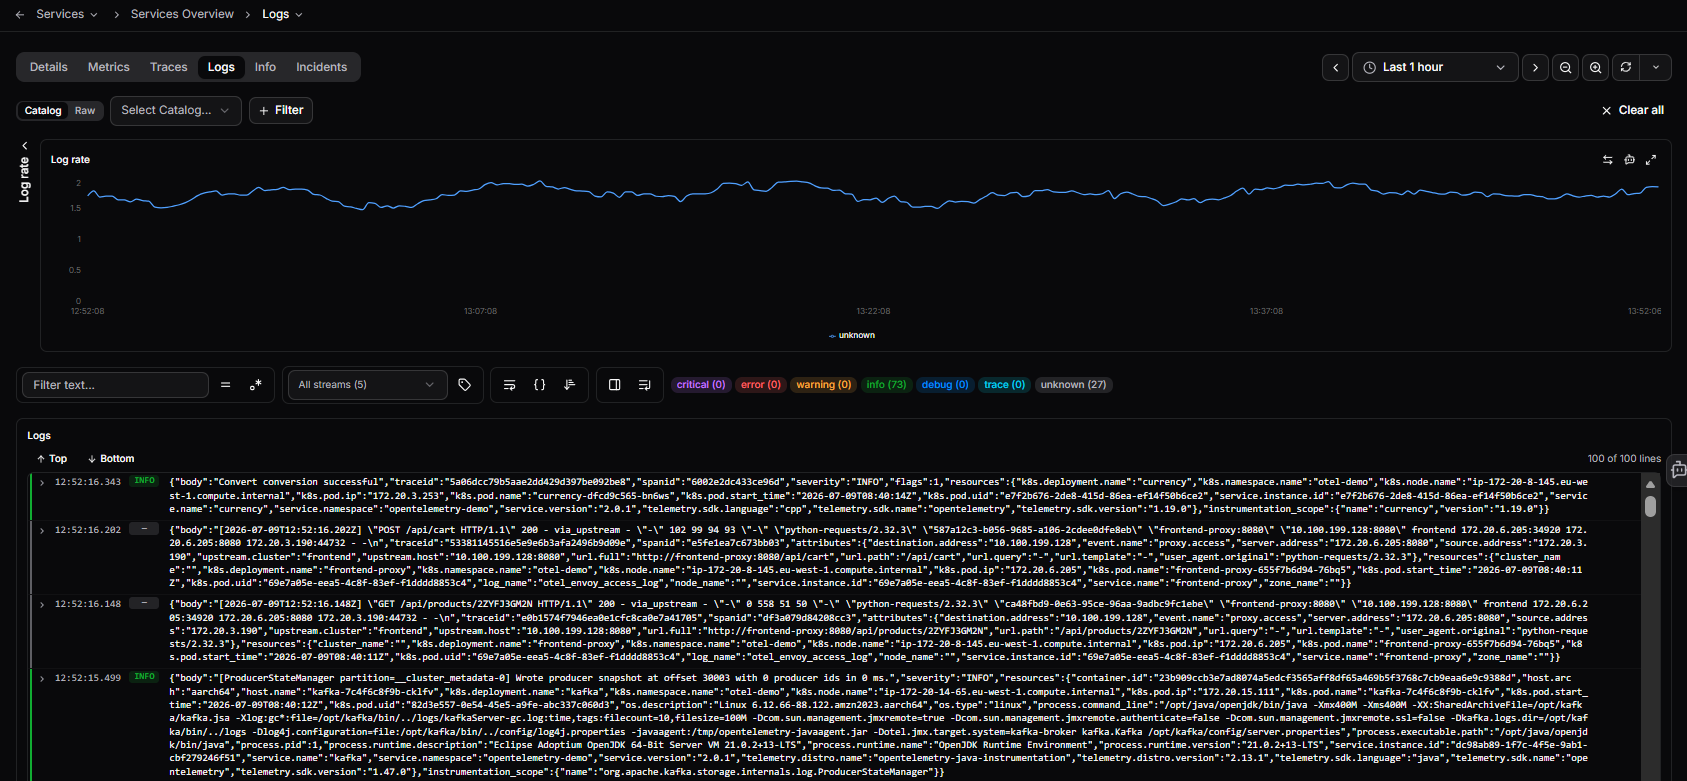
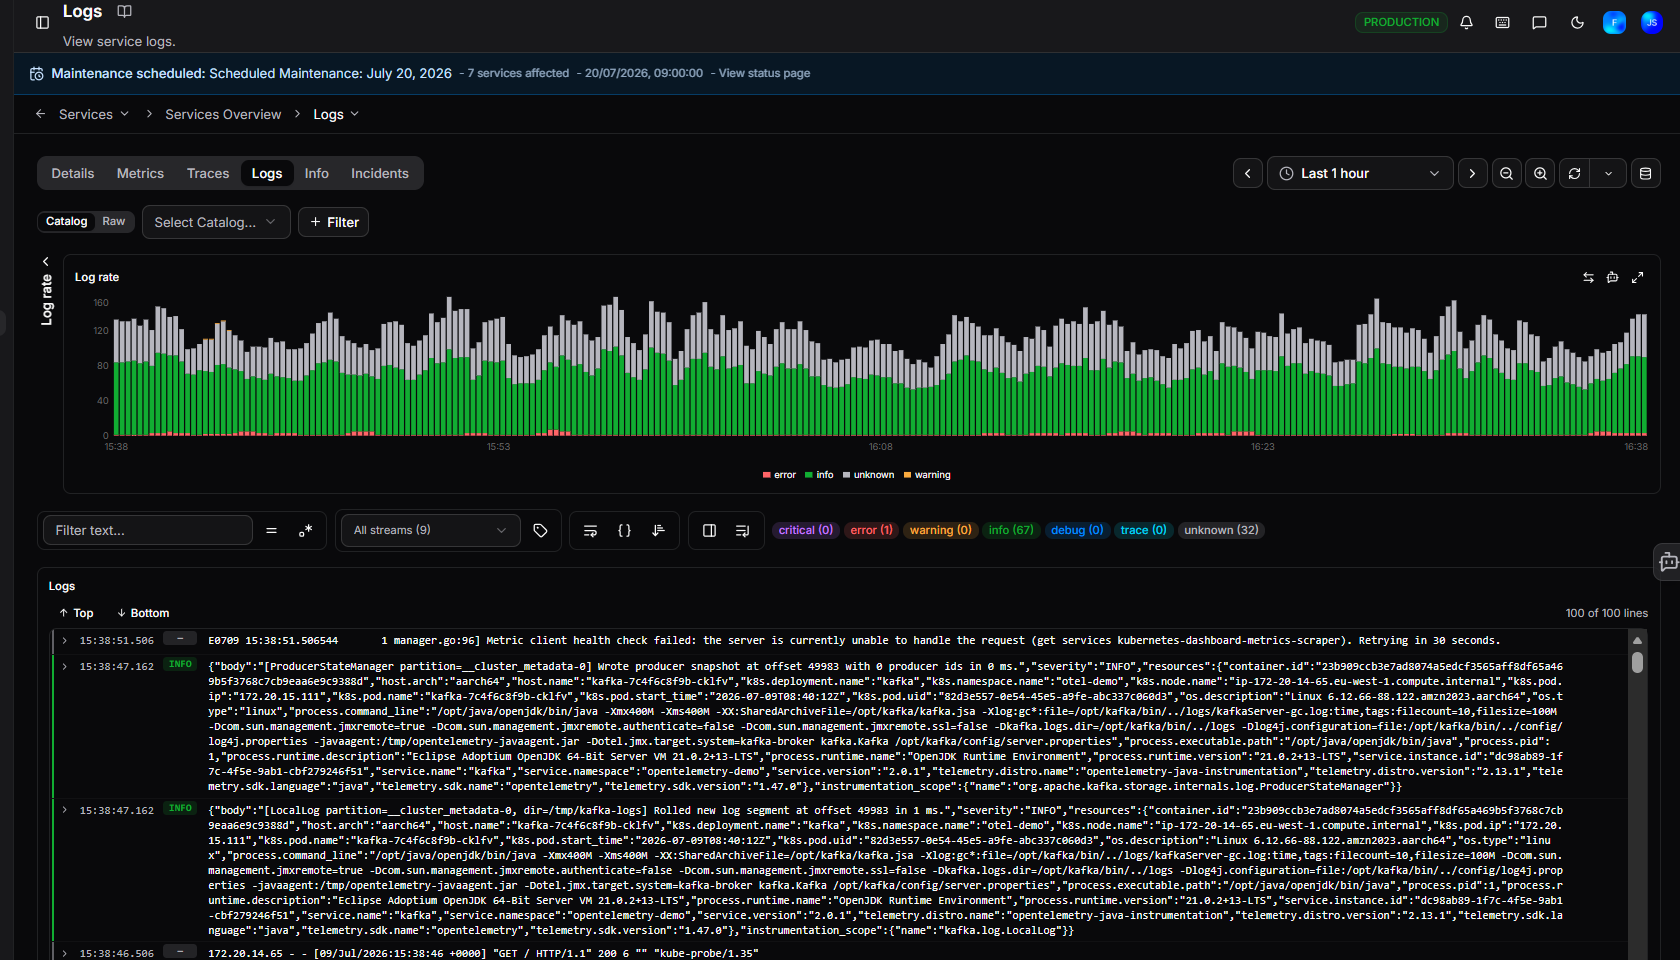
Expand Services docs with additional UI details and new screenshots
- logs.md: correct toolbar icon names, add Tail logs and Show details in sidebar; add Log Details sidebar section with Ask AI and Copy to clipboard; add sidebar.png
- traces.md: fix Analyze Trace to open Coworker (not OpsPilot AI); add analyze-trace.png; fix list formatting
- overview.md: add Node spacing, Catalog aliases, Offline services graph controls; add service table toolbar icons; add click-service.png to node tooltip section
- New screenshots: analyze-trace.png, click-service.png, sidebar.png

diff --git a/docs/Data-insights/Features/Services/logs.md b/docs/Data-insights/Features/Services/logs.md
@@ -40,10 +40,30 @@ Between the filters and the log list, a toolbar gives you additional controls:
 |---|---|
 | **Filter text** | Search log content by keyword or pattern |
 | **All streams** | Select which log streams to include |
-| **Labels** | Filter by log labels |
-| **`{}`** | Toggle JSON formatting for structured log entries |
-| **Sort order** | Switch between newest-first and oldest-first |
-| **Single / split view** | Toggle between a single log panel and a split view |
+| **Show stream labels** | Toggle display of log stream labels on each entry |
+| **Wrap lines** | Toggle line wrapping for long log messages |
+| **Prettify JSON** | Format JSON log entries for easier reading |
+| **Newest first** | Toggle sort order between newest-first and oldest-first |
+| **Show details in sidebar** | Open the Log Details panel alongside the log list |
+| **Tail logs** | Live-follow log output as it arrives |
+
+## Log Details sidebar
+
+Click **Show details in sidebar** or click a log entry to open the **Log Details** panel.
+
+![!Screenshot](sidebar.png) The panel shows:
+
+- **Timestamp**: the exact time of the log entry
+- **Unique labels**: key labels attached to the entry (e.g. exporter, instance, job, level, service name)
+- **All labels**: the full set of labels for the entry
+- **Log line**: the raw log content
+
+Two buttons in the top right of the sidebar:
+
+| Button | Description |
+|---|---|
+| **Ask AI** | Opens a Coworker conversation with this log entry in context |
+| **Copy to clipboard** | Copies the log entry details |
 
 ## Severity filters
 

diff --git a/docs/Data-insights/Features/Services/overview.md b/docs/Data-insights/Features/Services/overview.md
@@ -58,7 +58,9 @@ Similar services can be grouped together using the **Group peers by name similar
 
 ### Node tooltip
 
-Click any node to open a detailed panel. The top section shows live sparklines and current values for:
+Click any node to open a detailed panel.
+
+![!Screenshot](click-service.png) The top section shows live sparklines and current values for:
 
 | Metric | Description |
 |---|---|

diff --git a/docs/Data-insights/Features/Services/traces.md b/docs/Data-insights/Features/Services/traces.md
@@ -71,9 +71,11 @@ Click the `>` arrow on any row to expand it and see a summary and waterfall time
 
 Three buttons in the top right of the expanded view let you:
 
-- **Analyze Trace** - send the trace to OpsPilot AI for analysis
+- **Analyze Trace** - send the trace to Coworker for analysis
 - **Expand all** - expand all spans in the waterfall at once
 - **Collapse all** - collapse all spans in the waterfall at once
+
+![!Screenshot](analyze-trace.png)
 
 !!! question "Need more help?"
     Contact support in the chat bubble and let us know how we can assist.